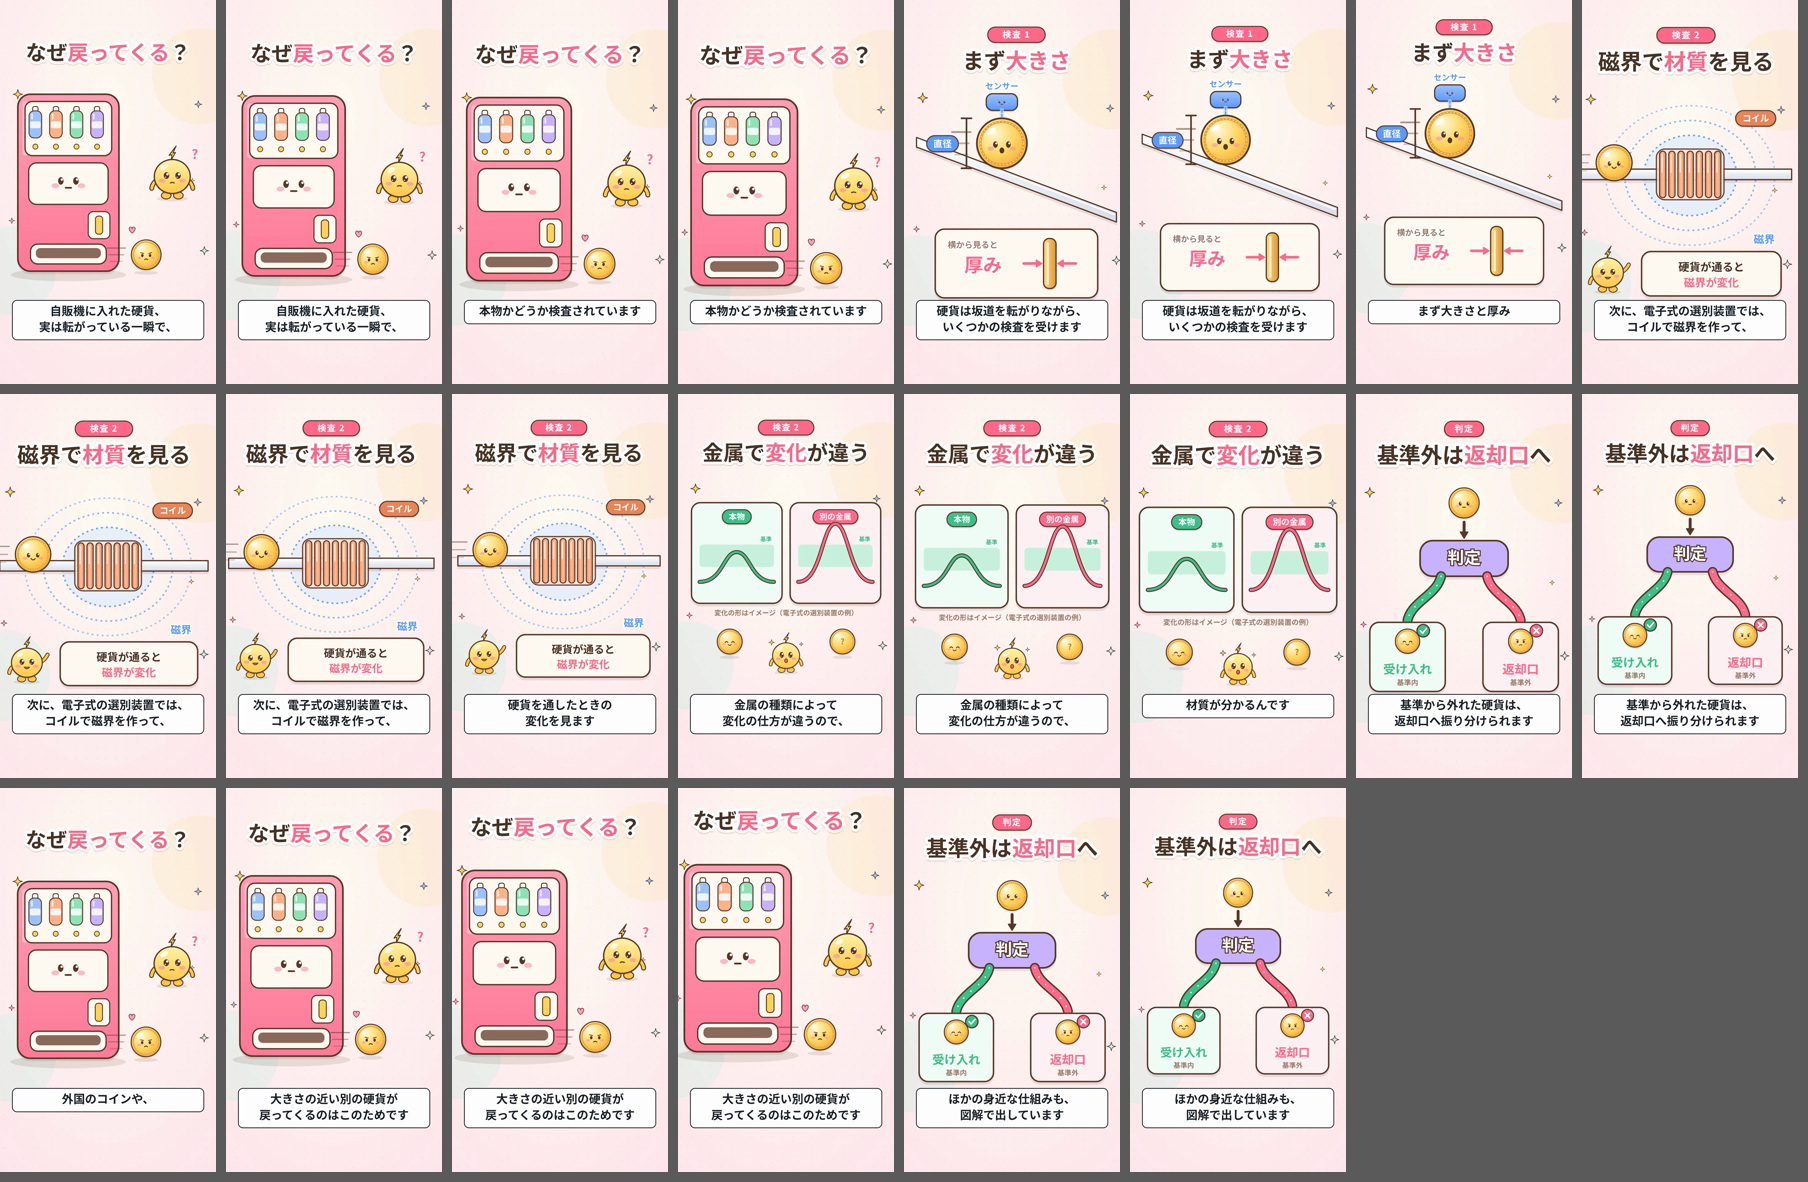
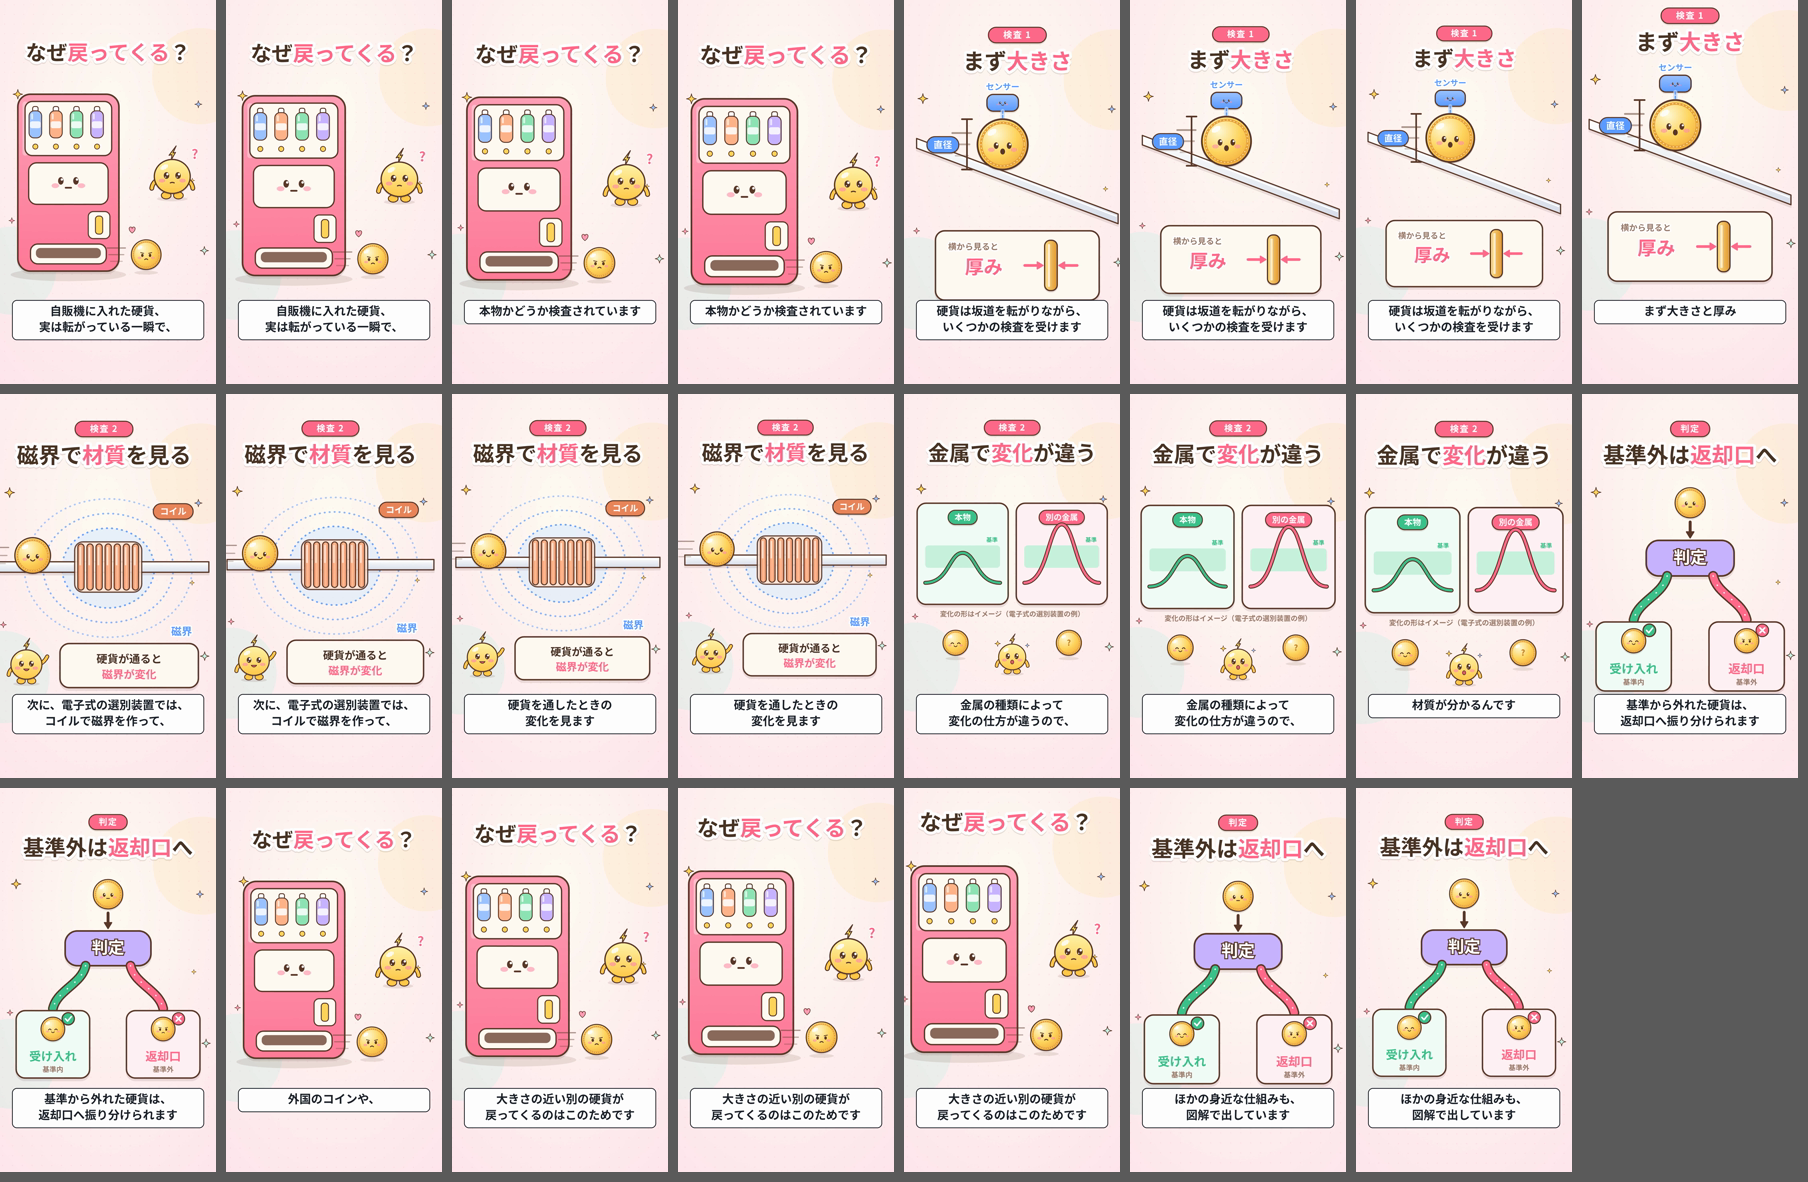
女性の声「Mei」（CC BY 3.0）に対応し、001を女性の声で作り直し
Claude-Session: https://claude.ai/code/session_012FUevStteJV7VRepsubg93

diff --git a/scripts/render_short.py b/scripts/render_short.py
@@ -33,9 +33,16 @@ def run(cmd):
 
 
 # ---------- ナレーション ----------
-def tts_openjtalk(text, path, speed, fm=0.0, alpha=None, jf=None):
+VOICES = {
+    "m001": "/usr/share/hts-voice/nitech-jp-atr503-m001/nitech_jp_atr503_m001.htsvoice",   # 男性
+    # 女性「Mei」（MMDAgent, CC BY 3.0）。scripts/setup_cloud.sh が入れる
+    **{f"mei_{m}": f"/opt/voices/mei/mei_{m}.htsvoice" for m in ("normal", "happy", "bashful", "sad", "angry")},
+}
+
+
+def tts_openjtalk(text, path, speed, fm=0.0, alpha=None, jf=None, model="m001"):
     """fm：声の高さ（半音）、alpha：声質（小さいほど軽い声）、jf：抑揚の強さ。可愛い声は plan.json の voice で指定"""
-    voice = "/usr/share/hts-voice/nitech-jp-atr503-m001/nitech_jp_atr503_m001.htsvoice"
+    voice = VOICES[model]
     dic = "/var/lib/mecab/dic/open-jtalk/naist-jdic"
     with tempfile.NamedTemporaryFile("w", suffix=".txt", delete=False, encoding="utf-8") as f:
         f.write(text)
@@ -182,7 +189,7 @@ def main(plan_path):
     work = os.path.join(out_dir, "work"); os.makedirs(work, exist_ok=True)
     vc = plan.get("voice", {})
     speed = vc.get("speed", 1.0)
-    vopt = {"fm": vc.get("fm", 0.0), "alpha": vc.get("alpha"), "jf": vc.get("jf")}
+    vopt = {"fm": vc.get("fm", 0.0), "alpha": vc.get("alpha"), "jf": vc.get("jf"), "model": vc.get("model", "m001")}
 
     segs, t, readings, problems, clips, wavs = [], 0.0, [], [], [], []
     for i, line in enumerate(plan["lines"]):

diff --git a/CLAUDE.md b/CLAUDE.md
@@ -10,7 +10,7 @@
 - 投入時間：週5時間以内（週約4時間の配分で合意 2026-11-22）
 - 投稿：Shorts 週3本から始める。長尺はShorts10本の反応を見て判断
 - 収益：まず広告（YouTubeパートナープログラムの条件は公式で要確認）
-- 方針：半自動。「判断」は人、声は合成音声（2026-11-22 決定）、図解・台本の下書き・編集はAIが担う
+- 方針：半自動。「判断」は人、声は合成音声・女性の声「Mei」（CC BY 3.0。説明欄にクレジット必須。2026-11-22 決定）、図解・台本の下書き・編集はAIが担う
 - 組み立て：`scripts/build_video.sh videos/NNN_xxx`（図解 → 声・字幕・BGM → 自動チェック）
 
 ## 部門

diff --git a/studio/README.md b/studio/README.md
@@ -20,5 +20,5 @@ URL: https://claude.ai/artifact/3qVLrULds3QcbP9D7129kn
 | 項目 | 内容 |
 |---|---|
 | voice | 選ばれた声のキー |
-| voiceOptions | [{key, label, url, openjtalk:{speed, fm, alpha, jf}}] |
+| voiceOptions | [{key, label, url, openjtalk:{model, speed, fm, alpha, jf}, credit}]。model は m001（男性）か mei_normal／mei_happy／mei_bashful など（女性・Mei） |
 | schedule | 定期実行の予定（表示用） |
